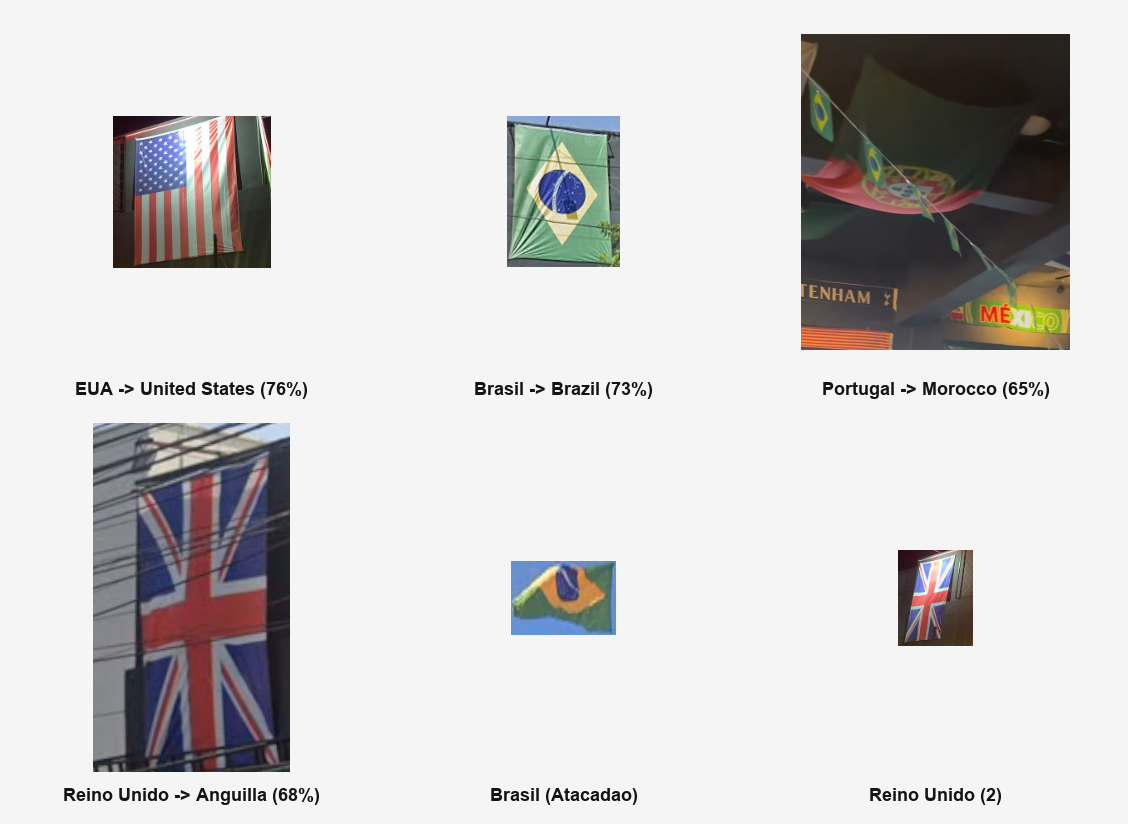
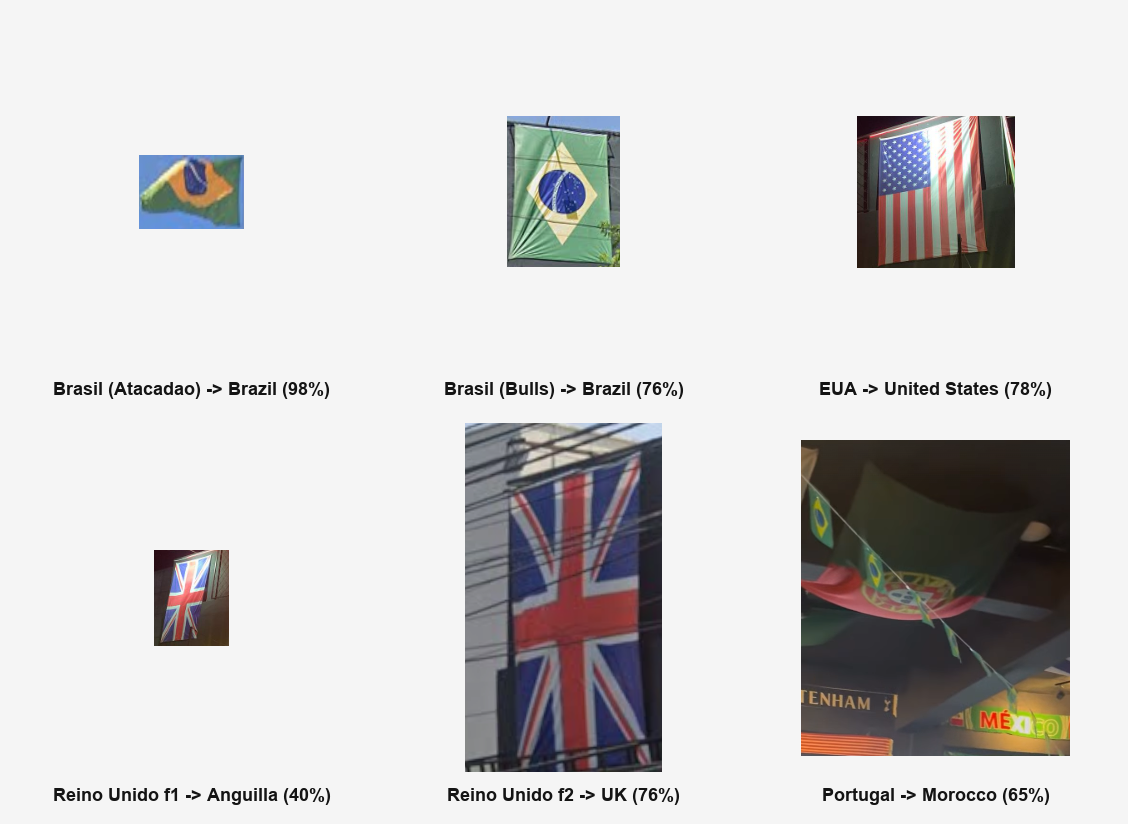
Alinha README com os resultados finais do relatorio
- Tabela de inferencia com as 6 fotos reais e confiancas atualizadas
- Mosaico fotos_reais.png com rotulos coerentes (Brasil 98%, EUA 78%, etc.)

diff --git a/README.md b/README.md
@@ -108,12 +108,20 @@ Métricas obtidas no **conjunto de teste** (420 imagens):
 
 ### Resultados das predições — fotos reais (capturadas pelo grupo)
 
-| Bandeira | Predição | Confiança | Resultado |
-|----------|----------|-----------|-----------|
-| Estados Unidos | United States | 76,2% | ✅ |
-| Brasil | Brazil | 73,0% | ✅ |
-| Reino Unido | Anguilla Flag | 68,5% | ❌ (classe ausente no dataset) |
-| Portugal | Morocco | 65,1% | ❌ (foto distante / cores parecidas) |
+Fotos capturadas pela equipe no *Bulls Beer House* e no *Atacadão* — condições reais
+(ângulo, iluminação, oclusão e ondulação do tecido):
+
+| Bandeira real | Predição do modelo | Confiança | Resultado |
+|---------------|--------------------|-----------|-----------|
+| Brasil (Atacadão) | Brazil | 98% | ✅ Correto |
+| Brasil (Bulls) | Brazil | 76% | ✅ Correto (bandeira incompleta) |
+| Estados Unidos | United States | 78% | ✅ Correto |
+| Reino Unido (foto 1) | Anguilla Flag | 40% | ❌ Erro — classe ausente |
+| Reino Unido (foto 2) | United Kingdom * | 76% | Detecção |
+| Portugal | Morocco | 65% | ❌ Erro — condição desfavorável |
+
+> \* O dataset **não possui classe própria para o Reino Unido** (apenas England,
+> Scotland e Wales). Veja a análise crítica no relatório.
 
 ![Fotos reais capturadas pelo grupo e a predição do modelo](fotos_reais.png)
 